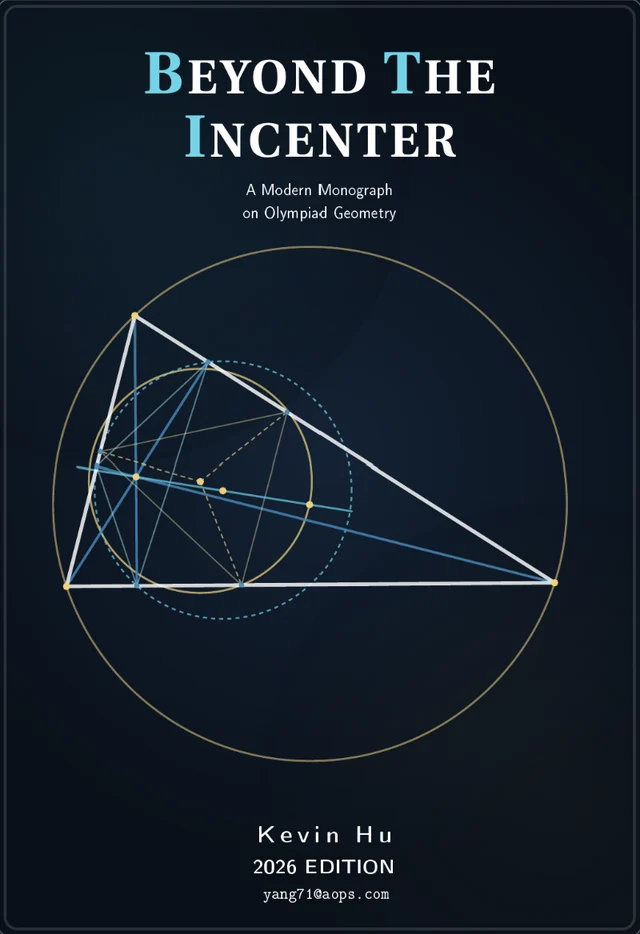
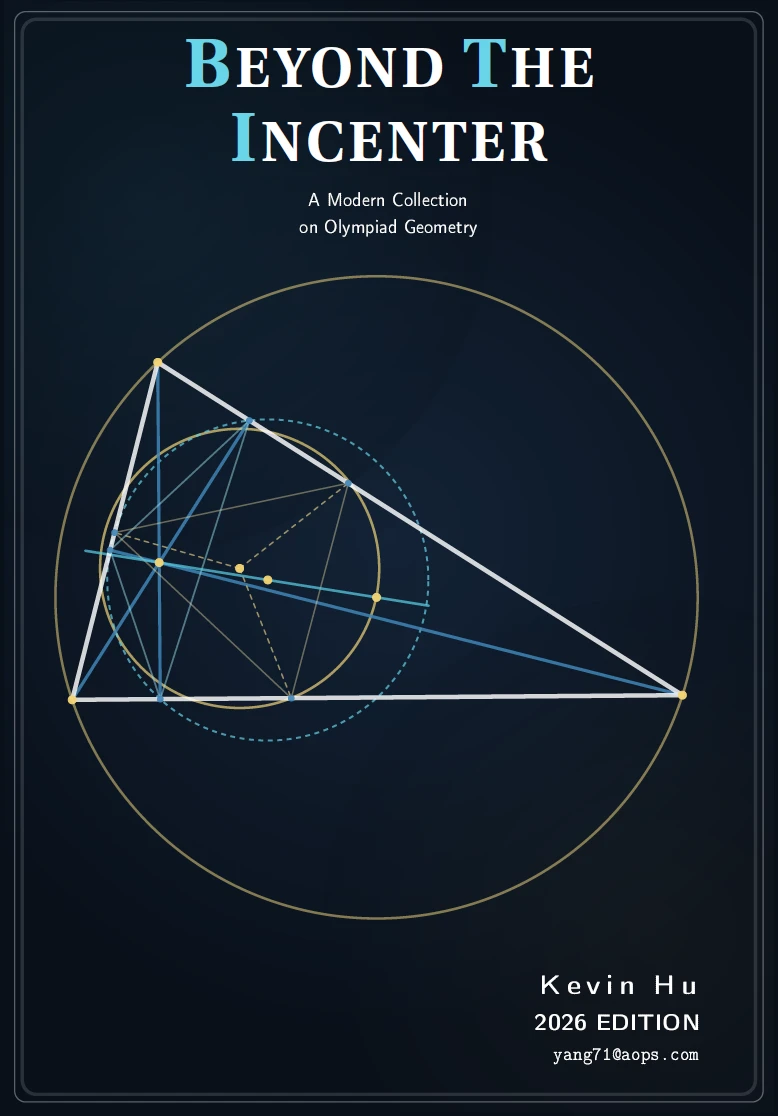
New book cover, "collection" not "monograph", plainer copy
Uses the 2026 cover of Beyond the Incenter: A Modern Collection on Olympiad
Geometry, and rewrites lines that read as AI-written in plain language.
Adds CLAUDE.md with the writing rules for future edits.

Claude-Session: https://claude.ai/code/session_01ExEktmQUGuWCcJ5ZAuqsGm

diff --git a/index.html b/index.html
@@ -56,7 +56,6 @@
           <circle cx="272" cy="122" r="11" fill="#E05873" stroke="#F3F1EC" stroke-width="2"/></g>
         <circle cx="160" cy="58" r="8" fill="#F3F1EC"/>
       </svg>
-      <span class="bubble">Weighing your options?</span>
     </div>
     <div>
       <ol>
@@ -89,7 +88,7 @@
   <span class="bubble hi-bubble" id="hiBubble">Hi, I'm Kevin!</span>
   <span class="bubble obj-label" id="objLabel"></span>
   <a class="badge" href="papers/Hu_UAE_PISA_2022_Maths_Achievement.pdf" target="_blank" rel="noopener" data-cur="Read" aria-label="Latest: my PISA 2022 research paper (PDF)">
-    <svg viewBox="0 0 128 128" aria-hidden="true"><defs><path id="circ" d="M64 64 m-50 0 a50 50 0 1 1 100 0 a50 50 0 1 1 -100 0"/></defs><text><textPath href="#circ">Latest · PISA 2022 paper · read it · </textPath></text></svg>
+    <svg viewBox="0 0 128 128" aria-hidden="true"><defs><path id="circ" d="M64 64 m-50 0 a50 50 0 1 1 100 0 a50 50 0 1 1 -100 0"/></defs><text><textPath href="#circ">Latest · PISA 2022 research paper · </textPath></text></svg>
     <span class="core">New<br>paper</span>
   </a>
   <div class="hero-social">
@@ -106,12 +105,12 @@
       <span class="tag">About me</span>
       <h2 class="sr" id="about-h">About me</h2>
       <div class="lens" id="lens" data-cur="Proof" style="margin-top:1.4rem">
-        <p class="surface">I'm drawn to the moments when intuition is wrong. I expected the sum of ever-smaller fractions to settle down, and the harmonic series <em style="color:var(--velvet)">diverges</em>.</p>
+        <p class="surface">I expected that adding ever-smaller fractions would give a finite total. The harmonic series <em style="color:var(--velvet)">diverges</em>.</p>
         <div class="under" aria-hidden="true"><p class="math">1 + ½ + (⅓ + ¼) + (⅕ + ⋯ + ⅛) + ⋯<br>&gt; 1 + ½ + ½ + ½ + ⋯ = ∞</p></div>
       </div>
       <button class="pill lens-toggle" id="lensBtn" type="button" aria-expanded="false" aria-controls="lens">Show the proof</button>
       <div style="display:grid;gap:1rem;margin-top:1.6rem;max-width:38rem">
-        <p>It took me pages of drafts to find the grouping that proves it, and I came away knowing that terms shrinking to zero is necessary but not enough. Saccheri was so sure of Euclid's parallel postulate that he walked away from hyperbolic geometry. That gap between what feels true and what is true is why I want to study mathematics.</p>
+        <p>It took me pages of drafts to find the grouping that proves it, and I came away knowing that terms shrinking to zero is necessary but not enough. Saccheri was so sure of Euclid's parallel postulate that he walked away from hyperbolic geometry. I want to study maths at university to learn the tools for testing intuition properly.</p>
         <p>I have played the piano since I was three. It taught me to break a hard passage into parts and get each one exactly right, which is how I work through a proof. When a younger pianist with small hands kept asking me for fingerings, I built a model that finds them for any pair of hands instead.</p>
       </div>
     </div>
@@ -137,7 +136,7 @@
     <div class="chapter-copy pop">
       <p class="part">Part one</p>
       <h2 class="chapter-title" id="maths-h">Mathematics</h2>
-      <p class="lede soft">Olympiads, research, a geometry book, and the writing in between. This is what I want to study.</p>
+      <p class="lede soft">Olympiads, research, my geometry book and my writing.</p>
       <nav class="jump" aria-label="Mathematics">
         <a class="pill mag" href="#olympiads">Olympiads</a><a class="pill mag" href="#epq">Research</a><a class="pill mag" href="#book">The book</a><a class="pill mag" href="#writing">Writing</a>
       </nav>
@@ -147,7 +146,7 @@
       <button class="handle" data-v="0" type="button" aria-label="Vertex A. Drag it, or use the arrow keys."></button>
       <button class="handle" data-v="1" type="button" aria-label="Vertex B. Drag it, or use the arrow keys."></button>
       <button class="handle" data-v="2" type="button" aria-label="Vertex C. Drag it, or use the arrow keys."></button>
-      <figcaption><span><i>OI</i> = <b id="oiVal">0.000</b></span><span>√(<i>R</i>² − 2<i>Rr</i>) = <b id="eulVal">0.000</b></span><span class="hand">Euler's theorem holds, however you drag it</span></figcaption>
+      <figcaption><span><i>OI</i> = <b id="oiVal">0.000</b></span><span>√(<i>R</i>² − 2<i>Rr</i>) = <b id="eulVal">0.000</b></span><span class="hand">Euler's formula: OI² = R² − 2Rr</span></figcaption>
     </figure>
   </div>
 </section>
@@ -231,7 +230,7 @@
       <div class="feat-copy pop">
         <span class="tag">Extended Project Qualification</span>
         <h3 class="title" id="epq-h">The Gibbs phenomenon</h3>
-        <p class="lede">Cut a Fourier series off after <i class="math">N</i> terms and it overshoots every jump by about 9%, however large <i class="math">N</i> gets. Can windowing fix that?</p>
+        <p class="lede">Cut a Fourier series off after <i class="math">N</i> terms and it overshoots every jump by about 9%, however large <i class="math">N</i> gets. My EPQ asks how well windowing reduces it.</p>
         <div class="notes">
           <div class="note"><b>≈ 9%</b><span>overshoot that never shrinks as <i>N</i> grows</span></div>
           <div class="note dark"><b>3</b><span>windows compared, from rectangular to Hann</span></div>
@@ -248,13 +247,13 @@
           </div>
         </div>
         <p class="gibbs-out"><span>Overshoot <b id="gOver">0</b> of the jump</span><span>10% to 90% rise <b id="gRise">0</b></span></p>
-        <figcaption class="blue-cap"><span>Fig. 1, square wave, partial sums</span><span>Live</span></figcaption>
+        <figcaption class="blue-cap"><span>Fig. 1, square wave, partial sums</span></figcaption>
       </figure>
     </div>
     <ol class="steps"><li><span>Question</span></li><li><span>Gibbs constant</span></li><li><span>Windows as weights</span></li><li><span>Overshoot vs width</span></li><li><span><b>Dissertation</b></span></li></ol>
     <div class="meta-row">
-      <details class="more-story"><summary><i>+</i> The full story</summary>
-        <div class="story"><p>My question: to what extent do mathematical windowing techniques resolve the Gibbs phenomenon in the Fourier approximation of non-continuous signals?</p><p>I derived the Gibbs constant with help from an undergraduate thesis, then treated each window as a sequence of weights on the Fourier coefficients and measured two things: the overshoot, and how wide the jump becomes.</p><p>No window wins on both. The more a window suppresses the overshoot, the wider the transition gets, so the right window depends on what the signal is for.</p></div>
+      <details class="more-story"><summary><i>+</i> More detail</summary>
+        <div class="story"><p>My question: to what extent do mathematical windowing techniques resolve the Gibbs phenomenon in the Fourier approximation of non-continuous signals?</p><p>I derived the Gibbs constant with help from an undergraduate thesis, then treated each window as a sequence of weights on the Fourier coefficients and measured two things: the overshoot, and how wide the jump becomes.</p><p>None of the windows did best on both. Reducing the overshoot always widened the transition, so the best window depends on the application.</p></div>
       </details>
       <div class="chips" aria-label="Tools"><span>Fourier series</span><span>Python</span><span>Signal processing</span><span>2025 to now</span></div>
     </div>
@@ -269,7 +268,7 @@
       <div class="feat-copy pop">
         <span class="tag velvet">Research paper, 2026</span>
         <h3 class="title" id="pisa-h">Maths achievement in UAE private schools</h3>
-        <p class="lede">A multilevel analysis of PISA 2022: what separates students, and what separates schools?</p>
+        <p class="lede">A multilevel analysis of PISA 2022 data at student and school level.</p>
         <div class="notes">
           <div class="note mist"><b>10,668</b><span>students in 104 private schools</span></div>
           <div class="note"><b>27%</b><span>of score variation lies between schools</span></div>
@@ -296,8 +295,8 @@
     </div>
     <ol class="steps"><li><span>Question</span></li><li><span>PISA 2022 data</span></li><li><span>Two-level models</span></li><li><span>Rubin's rules</span></li><li><span><b>Paper</b></span></li></ol>
     <div class="meta-row">
-      <details class="more-story"><summary><i>+</i> The full story</summary>
-        <div class="story"><p>Dubai's private schools average 497 in PISA maths, among the highest-scoring regions in the world, while the UAE as a whole averages 431. I wanted to know what drives scores inside that system.</p><p>I fitted five two-level hierarchical linear models in MLwiN, combining all plausible values with Rubin's rules and using PISA's sampling weights at both levels.</p><p>Maths self-efficacy, immigrant status, maths anxiety and the school's average socio-economic status were the strongest predictors. The socio-economic gradient is steeper for first-generation immigrants, and anxiety hurts more in more advantaged schools.</p></div>
+      <details class="more-story"><summary><i>+</i> More detail</summary>
+        <div class="story"><p>Dubai's private schools average 497 in PISA maths, among the highest-scoring regions in the world, while the UAE as a whole averages 431. I wanted to find out which factors explain the differences within that system.</p><p>I fitted five two-level hierarchical linear models in MLwiN, combining all plausible values with Rubin's rules and using PISA's sampling weights at both levels.</p><p>Maths self-efficacy, immigrant status, maths anxiety and the school's average socio-economic status were the strongest predictors. The socio-economic gradient is steeper for first-generation immigrants, and anxiety hurts more in more advantaged schools.</p></div>
       </details>
       <div class="chips" aria-label="Tools"><span>MLwiN</span><span>Multilevel modelling</span><span>PISA 2022</span></div>
     </div>
@@ -352,7 +351,7 @@
       <div class="feat-copy pop">
         <span class="tag">St Catharine's College, Cambridge, August 2026</span>
         <h3 class="title" id="rw-h">Random walks on lattices and graphs</h3>
-        <p class="lede">A research paper from the mathematics programme at St Catharine's: how far a random walker strays, whether it comes home, and how long it takes to visit every node of a graph.</p>
+        <p class="lede">A research paper from the mathematics programme at St Catharine's: how far a random walker gets from its start, whether it returns, and how long it takes to visit every node of a graph.</p>
         <div class="notes">
           <div class="note"><b>1/√(πn)</b><span>roughly the chance a 1D walker is home after 2n steps</span></div>
           <div class="note dark"><b>17</b><span>pages, from ℤ to k-regular graphs</span></div>
@@ -378,7 +377,7 @@
     </div>
     <ol class="steps"><li><span>Walk on ℤ</span></li><li><span>Walk on ℤ²</span></li><li><span>k-regular graphs</span></li><li><span>Variations</span></li><li><span><b>Paper</b></span></li></ol>
     <div class="meta-row">
-      <details class="more-story"><summary><i>+</i> What's in it</summary>
+      <details class="more-story"><summary><i>+</i> Summary</summary>
         <div class="story"><p>On the line ℤ, the walker's position follows Pascal's triangle divided by powers of 2, its variance grows linearly with the number of steps, and Stirling's approximation gives a return probability of about 1/√(πn). Those terms sum to infinity, so the walk is recurrent: it comes back to the start.</p><p>On the grid ℤ², a change to diagonal coordinates splits the walk into two independent one-dimensional walks, and the same argument shows it is recurrent too. The paper then studies walks on finite k-regular graphs, including how long it takes to visit every node, and ends with variations closer to real life, including counting non-intersecting walks with the Lindström–Gessel–Viennot lemma.</p></div>
       </details>
       <div class="chips"><span>Probability</span><span>Stirling's approximation</span><span>LGV lemma</span><span>Cambridge, 2026</span></div>
@@ -391,17 +390,17 @@
 <section class="band b-navy" id="book" aria-labelledby="book-h">
   <div class="wrap feat">
     <figure class="print pop" style="--r:-3deg;max-width:340px;justify-self:center;padding-bottom:.7rem">
-      <img src="media/book-front.webp" width="640" height="934" loading="lazy" alt="Front cover of Beyond the Incenter by Kevin Hu: a triangle with its circumcircle, incircle and nine-point circle in gold and blue on navy">
+      <img src="media/book-front.webp" width="778" height="1116" loading="lazy" alt="Front cover of Beyond the Incenter: A Modern Collection on Olympiad Geometry, by Kevin Hu, 2026 edition">
     </figure>
     <div class="feat-copy pop">
       <span class="tag">Book</span>
       <h2 class="title" id="book-h"><i style="font-weight:500">Beyond the Incenter</i></h2>
-      <p class="lede soft">A Modern Monograph on Olympiad Geometry. First edition, August 2026.</p>
+      <p class="lede soft">A Modern Collection on Olympiad Geometry. 2026 edition.</p>
       <div class="notes">
         <div class="note"><b>100+</b><span>olympiad geometry problems with commentary</span></div>
         <div class="note mist"><b>7</b><span>chapters and nearly 180 diagrams, all in LaTeX</span></div>
       </div>
-      <p style="margin-top:1rem;max-width:36rem">From the triangle's five centres to cross ratios, radical axes, projective geometry and spiral similarity. Each problem compares more than one route, so the reader sees why the clean solution works and the coordinate bash doesn't.</p>
+      <p style="margin-top:1rem;max-width:36rem">It covers the triangle's five centres, cross ratios, radical axes, projective geometry and spiral similarity. Many problems are solved in more than one way, so synthetic methods can be compared with coordinate and trigonometric ones.</p>
       <p class="hand" style="font-size:1.35rem;color:var(--gold);max-width:32rem;line-height:1.3">At a school of over a thousand students, I found three people who knew Menelaus's theorem.</p>
       <div class="links"><a class="pill solid mag" href="https://www.amazon.co.uk/dp/B0HCDN9VFL" target="_blank" rel="noopener" data-cur="Buy">Buy on Amazon <span class="arr">↗</span></a><a class="pill mag" href="https://kevinvariant08.github.io/cross-ratios.pdf" target="_blank" rel="noopener" data-cur="Read">Sample chapter <span class="arr">↗</span></a></div>
     </div>
@@ -457,7 +456,7 @@
         <span class="tag velvet">Maths Society magazine</span>
         <h2 class="title" id="wr-h">The legendary 12&#8209;coin problem</h2>
         <p class="lede">Twelve coins, at most one fake, a balance and three weighings. My article solves it twice: by minimax casework, then with a 3 × 12 matrix.</p>
-        <p class="soft" style="max-width:34rem">Each row is a weighing: −1 is the left pan, 1 the right, 0 off the scale. If no column is zero, no two columns are equal or opposite, and each row sums to zero, the three readings point at exactly one coin. Pick a fake.</p>
+        <p class="soft" style="max-width:34rem">Each row is a weighing: −1 is the left pan, 1 the right, 0 off the scale. If no column is zero, no two columns are equal or opposite, and each row sums to zero, the three readings point at exactly one coin.</p>
       </div>
       <div class="blue lab" id="lab" style="--r:.8deg">
         <div class="lab-row">
@@ -467,7 +466,7 @@
         <div class="coins" id="coins" role="group" aria-label="Choose the fake coin"></div>
         <div class="lab-out"><div class="scales" id="scales"></div><div class="scroll-x"><table class="matrix" id="matrix" aria-label="Weighing matrix"></table></div></div>
         <p class="verdict" id="verdict" aria-live="polite"></p>
-        <p class="blue-cap"><span>Fig. 2, the weighing matrix from my article</span><span>Live</span></p>
+        <p class="blue-cap"><span>Fig. 2, the weighing matrix from my article</span></p>
       </div>
     </div>
     <h3 class="title" style="font-size:clamp(1.8rem,3.6vw,2.8rem);margin-top:clamp(4rem,8vw,6rem)">More writing &amp; solutions</h3>
@@ -489,14 +488,14 @@
     <div class="chapter-copy pop">
       <p class="part">Part two</p>
       <h2 class="chapter-title" id="music-h">Music</h2>
-      <p class="lede soft">Piano since I was three: a near-perfect 49/50 ARSM distinction, among the highest recorded ARSM scores globally; 194/200 in GCSE Music, the highest mark in the world; competition prizes in four countries; and my own compositions.</p>
+      <p class="lede soft">I have played the piano since I was three. My ARSM diploma scored 49/50, among the highest recorded ARSM scores globally, and my 194/200 in GCSE Music was the highest mark in the world. I have won prizes in four countries, and I also compose.</p>
       <nav class="jump" aria-label="Music">
         <a class="pill mag" href="#piano">Recordings</a><a class="pill mag" href="#awards">Prizes</a><a class="pill mag" href="#compositions">Compositions</a>
       </nav>
     </div>
     <div class="keys-wrap pop">
       <div class="keys" id="keys" role="group" aria-label="A playable octave, C4 to C5"></div>
-      <p class="hand keys-note">An octave from C4. It plays, so go ahead.</p>
+      <p class="hand keys-note">C4 to C5</p>
     </div>
   </div>
 </section>
@@ -511,7 +510,7 @@
         <h3 class="big" id="pi-h">At the <em>piano</em></h3>
       </div>
       <div class="pop">
-        <p class="lede">I achieved a near-perfect 49/50 distinction in my ARSM performance diploma, among the highest recorded ARSM scores globally: one mark short of the maximum, with full marks for performance as a whole. My 2025 GCSE Music mark of 194/200 was the highest in the world, and I write my own music too: a piano concerto, variations and pieces for one and two pianos.</p>
+        <p class="lede">Recordings of my playing, my competition results, and my own pieces: a piano concerto, variations, and works for one and two pianos.</p>
         <div class="notes"><div class="note velvet"><b>1st</b><span>Steinway Piano Competition GCC, 2025</span></div><div class="note"><b>49/50</b><span>ARSM distinction, among the highest recorded globally</span></div></div>
       </div>
     </div>
@@ -574,7 +573,7 @@
   <div class="wrap">
     <p class="part">Also</p>
     <h2 class="chapter-title" id="proj-h" style="font-size:clamp(2.8rem,7vw,5.6rem)">Projects</h2>
-    <p class="lede soft">Software I've written, mostly for people learning maths, plus one for pianists that sits between my two subjects.</p>
+    <p class="lede soft">Software I've written, mostly for maths students, and one tool for pianists.</p>
   </div>
 </section>
 
@@ -586,7 +585,7 @@
       <div class="feat-copy pop">
         <span class="tag">Website, 2025 to now</span>
         <h3 class="title" id="kv-h">Kevinvariant</h3>
-        <p class="lede">My free site for Oxbridge admissions tests and olympiads: original mock papers with worked solutions, and tools for practising them properly.</p>
+        <p class="lede">My free site for Oxbridge admissions tests and olympiads: original mock papers with worked solutions, and practice tools.</p>
         <div class="notes">
           <div class="note"><b>12</b><span>TMUA mock sets, A to L</span></div>
           <div class="note dark"><b>6</b><span>ESAT mock sets, A to F</span></div>
@@ -639,7 +638,7 @@
       <h3 class="title" id="ff-h">FingerFlow</h3>
       <p class="lede soft">Upload a photo of a score and your hand span, and FingerFlow suggests piano fingerings that suit your hands.</p>
       <div class="notes">
-        <div class="note"><b>71.4%</b><span>how often human pianists agree: the real ceiling</span></div>
+        <div class="note"><b>71.4%</b><span>agreement between human pianists, the upper limit for any model</span></div>
       </div>
       <p class="soft" style="max-width:34rem;margin-top:.6rem">Each finger-to-finger move gets a biomechanical cost (key geometry, span scaled to the hand, legato, tempo), and a second-order Viterbi decoder finds the cheapest sequence. Weights are learnt from the PIG dataset of human fingerings.</p>
       <div class="links"><a class="pill solid mag" href="https://github.com/MarcAlKareh/fingerflow" target="_blank" rel="noopener" data-cur="Code">Code on GitHub <span class="arr">↗</span></a></div>
@@ -702,7 +701,7 @@
 
 <footer class="band b-deep contact" id="contact" aria-labelledby="ct-h">
   <div class="wrap">
-    <h2 class="giant" id="ct-h">Let's talk<i>.</i></h2>
+    <h2 class="giant" id="ct-h">Contact<i>.</i></h2>
     <div class="contact-row">
       <a class="addr" href="mailto:kevin96496@gmail.com" data-cur="Email">kevin96496@gmail.com</a>
       <button class="pill solid mag copy" type="button" data-copy="kevin96496@gmail.com" data-cur="Copy">Copy email</button>

diff --git a/CLAUDE.md b/CLAUDE.md
@@ -1,0 +1,18 @@
+# Notes for working on this portfolio
+
+## Writing style (Kevin's rule: no AI tone)
+
+All text on the site should read as if Kevin wrote it himself. Avoid anything that sounds AI-generated:
+
+- No cute or chatty asides, such as "It plays, so go ahead", "Weighing your options?" or "read it".
+- No rhetorical questions as hooks, such as "Can windowing fix that?"
+- No slogans, aphorisms or punchy contrasts, such as "No window wins on both" or "the real ceiling".
+- No instructions to the reader, such as "Pick a fake" or "drag it".
+- No filler labels, such as "Live", "The full story" or "What's in it".
+- No em dashes, no lists of three for rhythm, no buzzwords.
+- Use plain, factual sentences in British English. Say what something is and what Kevin did.
+
+## Facts
+
+- The book is *Beyond the Incenter: A Modern Collection on Olympiad Geometry* (2026 edition). It is a collection, not a monograph.
+- Check numbers and claims against Kevin's own documents before adding them.
